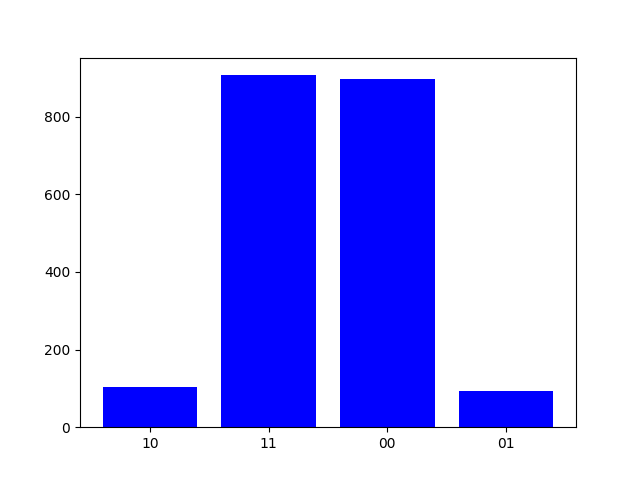
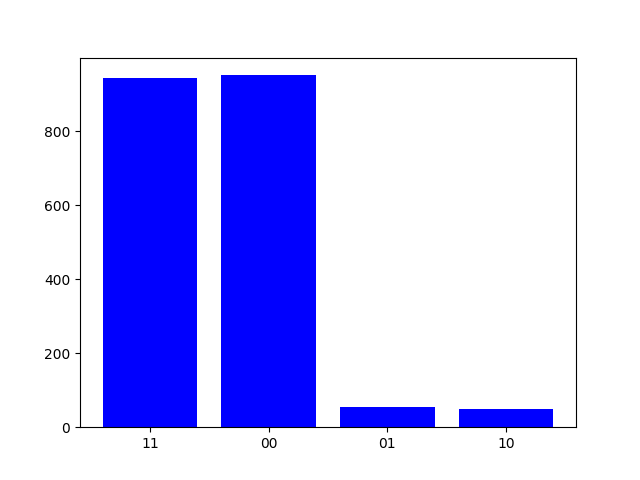
added optmisation

diff --git a/main.py b/main.py
@@ -14,6 +14,12 @@ from utils.ibmq_utils import (
 from utils.general_utils import file_handler
 from json import dumps, load
 
+LIVE_QC_KET_DISTRIBUTIONS = file_handler(
+    path="entangled_cnot_results.txt",
+    mode="r",
+    func=lambda f: load(f),
+)
+
 
 def plot_ket_distribution(ket_distribution: dict) -> None:
     """
@@ -52,10 +58,13 @@ def execute_circuit_record_result(
     )
 
 
-def simulate_entangled_cnot() -> Dict:
+def simulate_entangled_cnot(noise_percentage: float) -> Dict:
     """
     Simulates the entangled CNOT gate and returns the resulting ket
     distribution.
+
+    Args:
+
 
     Returns:
         The ket distribution of the entangled CNOT gate.
@@ -63,14 +72,16 @@ def simulate_entangled_cnot() -> Dict:
     return Counter(
         [
             execute_circuit_record_result(
-                simulated_entangled_noisy_cnot({"h": 0.0, "cx": 0.0595})
+                simulated_entangled_noisy_cnot(
+                    {"h": 0.0, "cx": noise_percentage}
+                )
             )
             for _ in range(2000)
         ]
     )
 
 
-def record_results_from_circuit_on_live_qc_(circuit: QuantumCircuit):
+def record_results_from_circuit_on_live_qc(circuit: QuantumCircuit):
     """
     Records the results of the given circuit on a live IBMQ quantum
     computer.
@@ -81,7 +92,7 @@ def record_results_from_circuit_on_live_qc_(circuit: QuantumCircuit):
     job = execute(
         circuit,
         backend=find_ibmq_provider_with_enough_qubits_and_shortest_queue(),
-        shots=2000,
+        shots=10000,
     )
     job_monitor(job)
 
@@ -119,24 +130,34 @@ def calculate_chi_squared_statistic_between_ket_distributions(
     return chi_squared_statistic
 
 
+def quantum_noise_optimisation_wrapper_function(
+    noise_percentage: float,
+) -> float:
+
+    return 100 / calculate_chi_squared_statistic_between_ket_distributions(
+        simulate_entangled_cnot(noise_percentage / 100),
+        LIVE_QC_KET_DISTRIBUTIONS,
+    )
+
+
 def main():
     """
     Main function.
     """
-    simulated_ket_distibution = simulate_entangled_cnot()
-    actual_ket_distribution = file_handler(
-        path="entangled_cnot_results.txt",
-        mode="r",
-        func=lambda f: load(f),
-    )
-    chi_squared_statistic = (
-        calculate_chi_squared_statistic_between_ket_distributions(
-            simulated_ket_distibution, actual_ket_distribution
-        )
-    )
-    print(chi_squared_statistic)
+    from bayes_opt import BayesianOptimization
 
-    plot_ket_distribution(simulated_ket_distibution)
+    optimiser = BayesianOptimization(
+        f=quantum_noise_optimisation_wrapper_function,
+        pbounds={"noise_percentage": (0.0, 100.0)},
+        random_state=1,
+    )
+
+    optimiser.maximize(
+        init_points=5,
+        n_iter=20,
+    )
+
+    print(optimiser.max)
 
 
 if __name__ == "__main__":

diff --git a/quantum_circuits_creator.py b/quantum_circuits_creator.py
@@ -87,11 +87,6 @@ def entangled_cnot() -> QuantumCircuit:
     """
     Returns a circuit with CNOT gate
 
-    Args:
-        noise_probability:
-            The probability of performing a bit flip after each gate is
-            applied
-
     Returns:
         A quantum circuit with a noisy CNOT gate.
     """

diff --git a/utils/ibmq_utils.py b/utils/ibmq_utils.py
@@ -32,5 +32,4 @@ def find_ibmq_provider_with_enough_qubits_and_shortest_queue(
                 shortest_queue_length = queue_length
                 backend_with_shortest_queue = backend
 
-    print(type(backend_with_shortest_queue))
     return backend_with_shortest_queue
